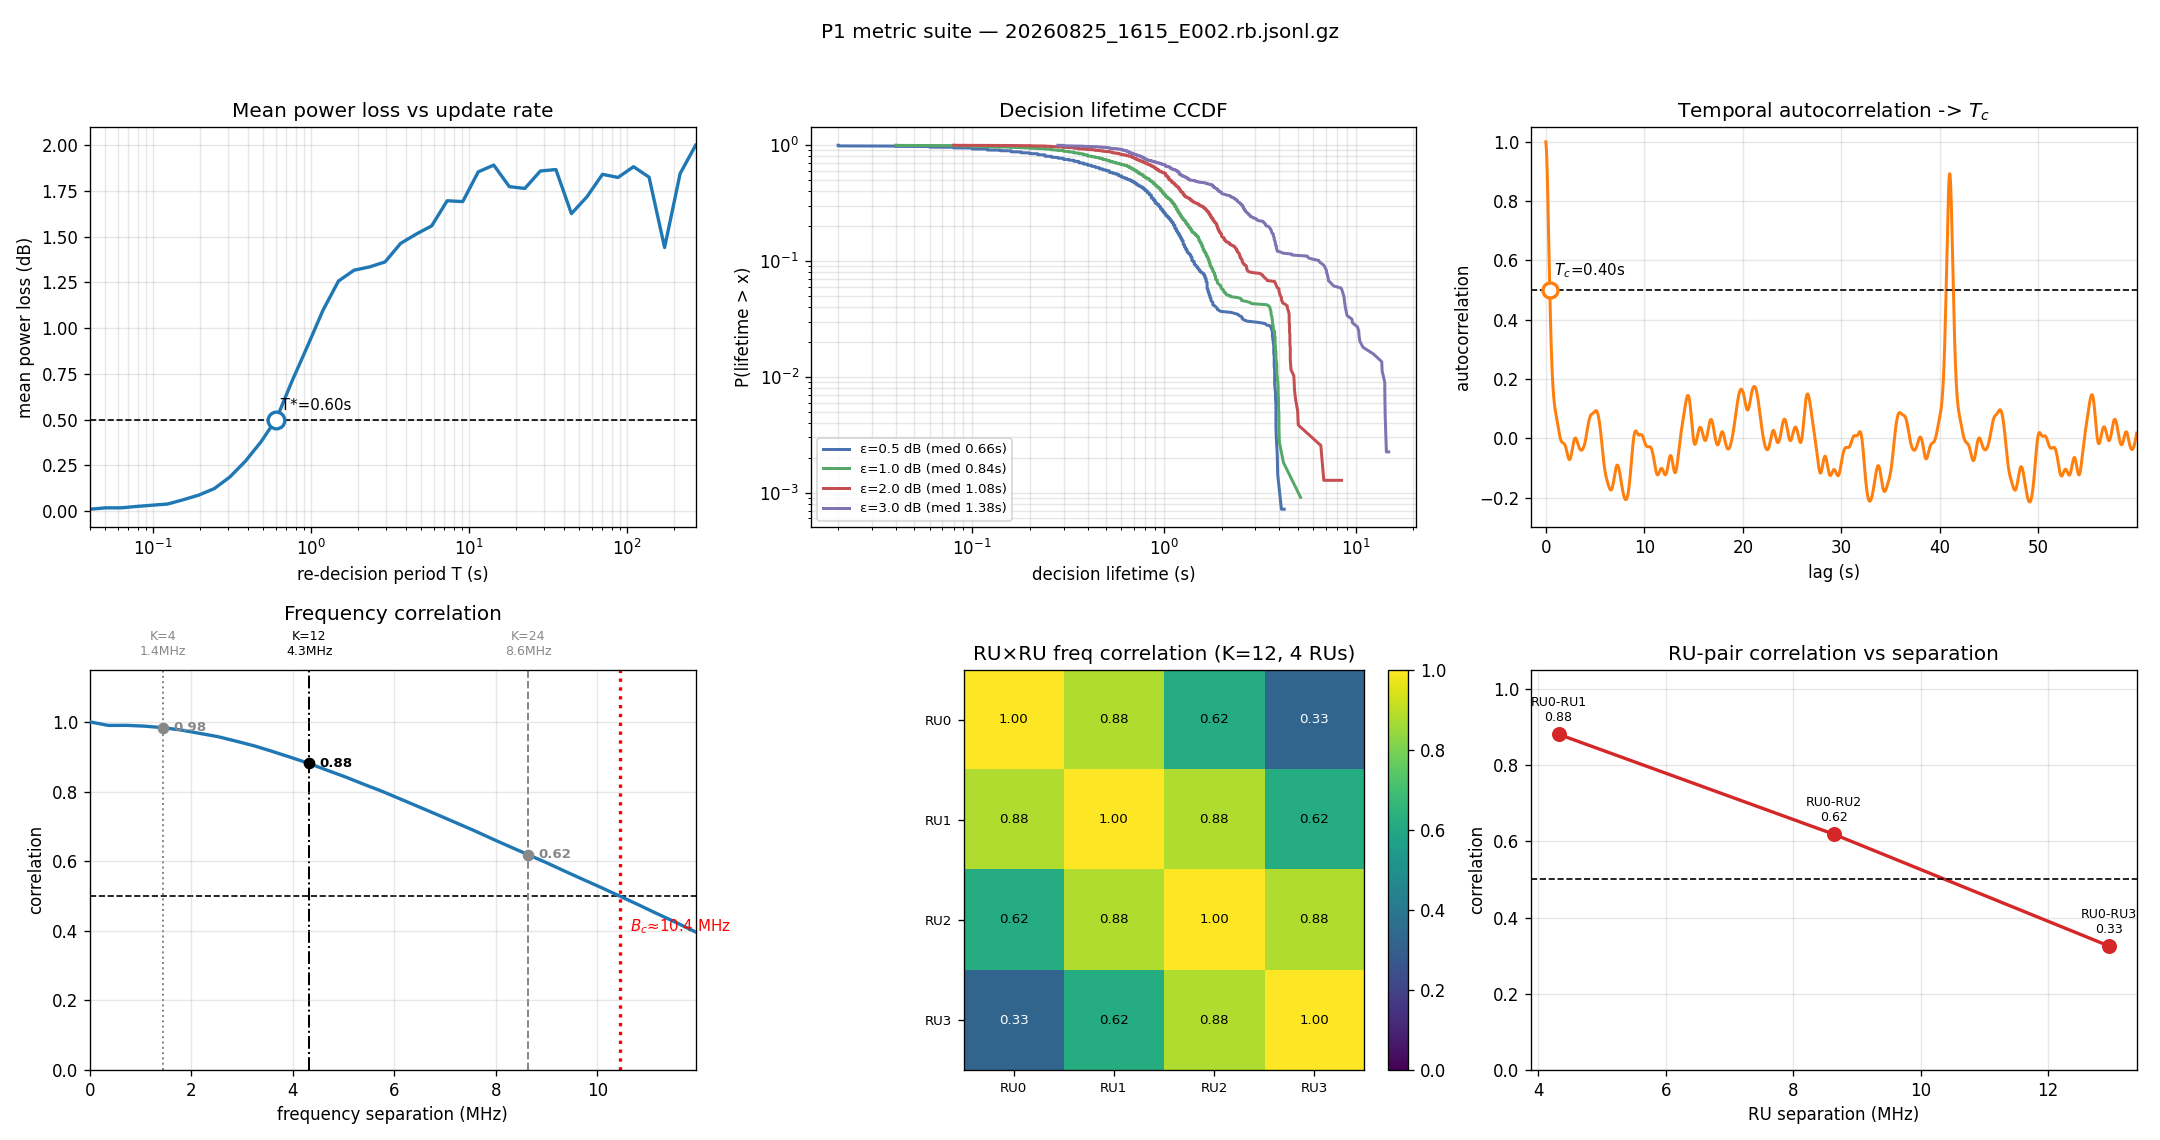
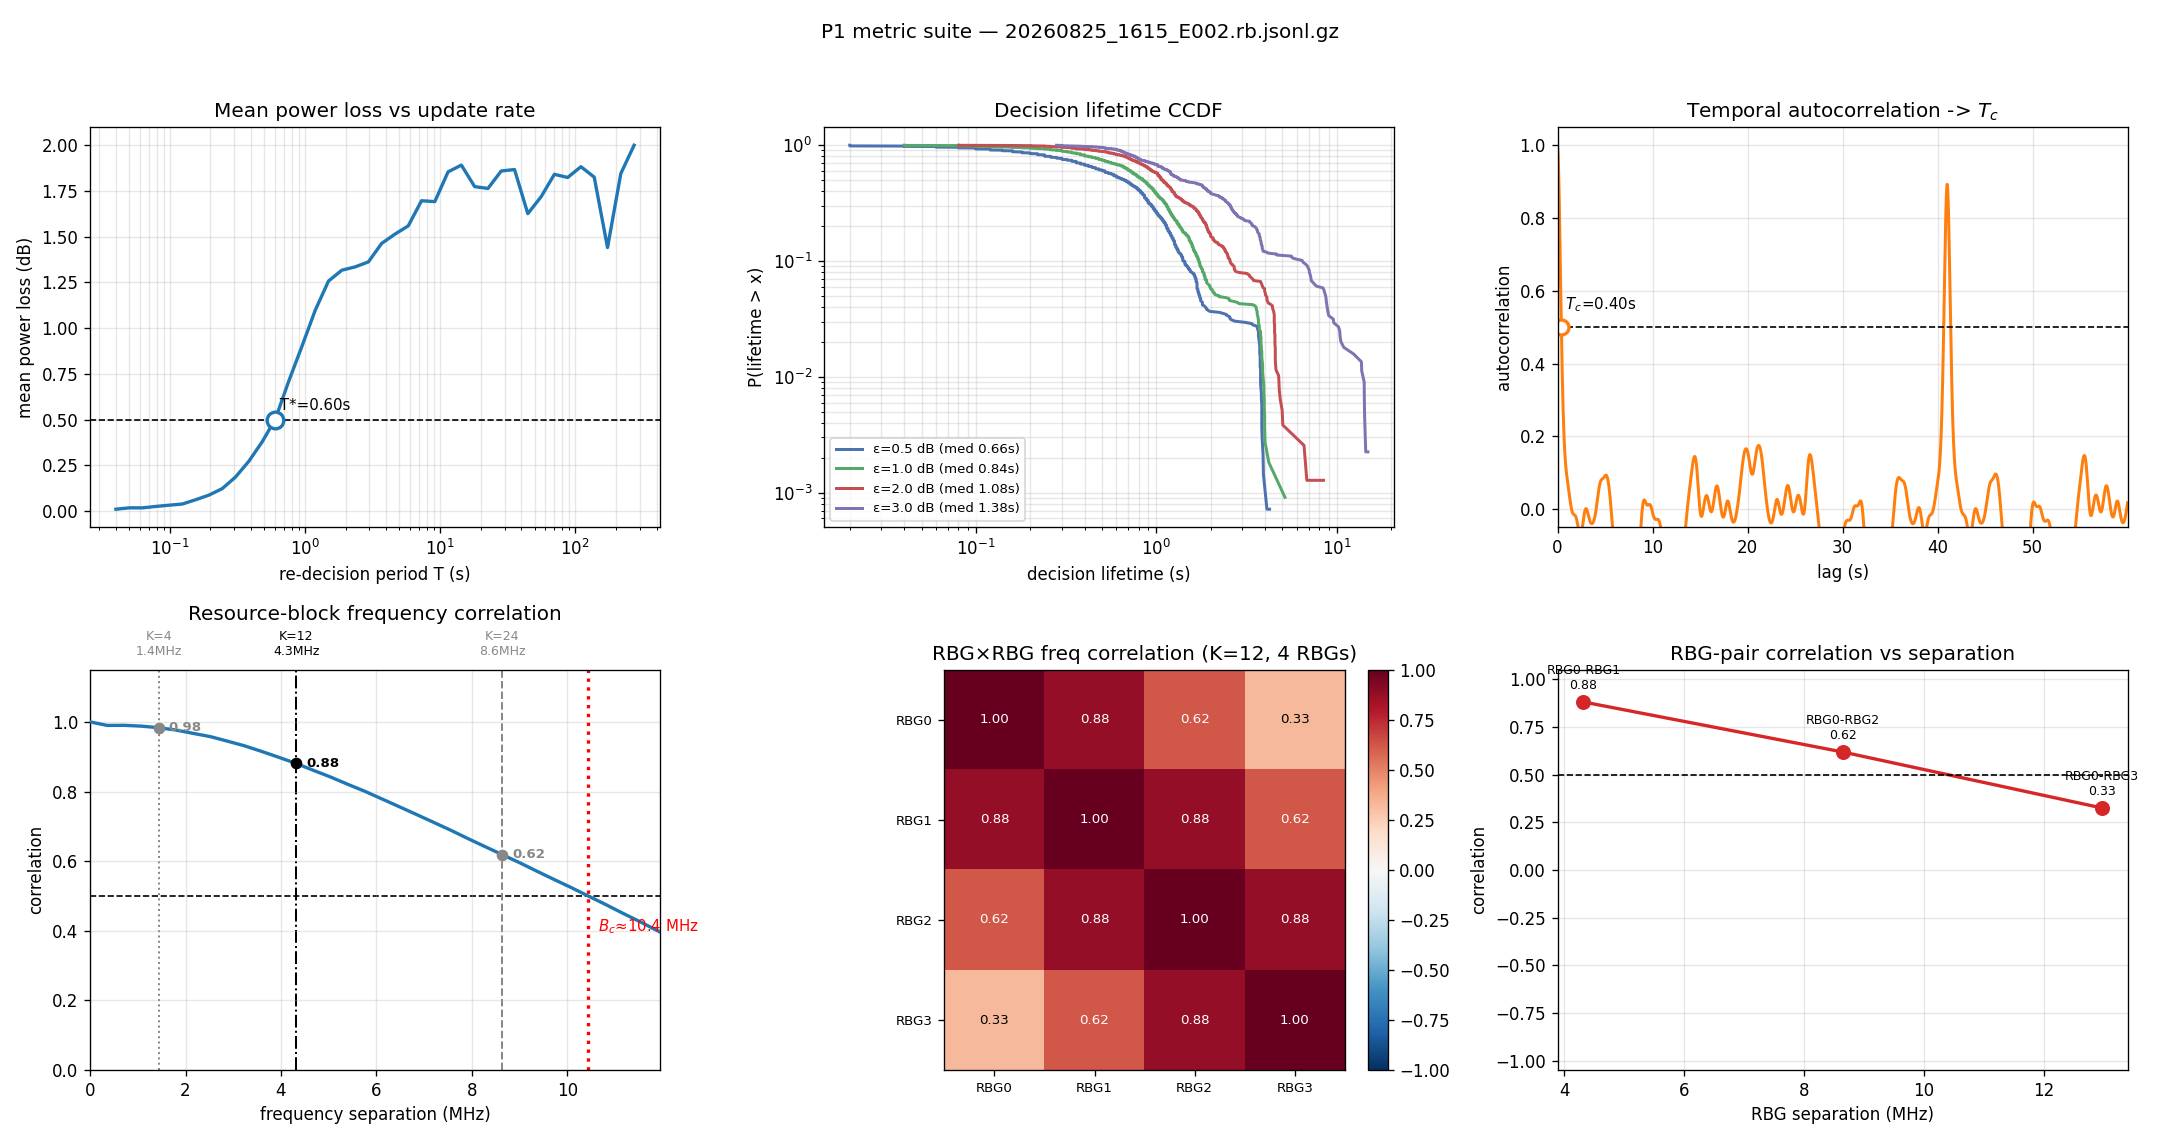
metrics_suite: rename RU->RBG, fix negative-correlation display, resource-block freq label

diff --git a/tools/metrics_suite.py b/tools/metrics_suite.py
@@ -4,10 +4,10 @@ metrics_suite.py — P1 metric set from a per-RB SRS capture.
 Panels:
   A regret vs re-decision period T -> T*
   B decision-lifetime CCDF (eps = 0.5/1/2/3 dB)
-  E temporal autocorrelation -> coherence time Tc(0.5)  [interpolated, multi-RU]
+  E temporal autocorrelation -> coherence time Tc(0.5)  [interpolated, multi-RBG]
   C frequency correlation -> coherence bandwidth Bc(0.5), K=4/12/24 markers
-  G RU x RU frequency-correlation matrix (heatmap), modular in K
-  H RU-pair correlation vs RU separation (from per-RB cf at RU-spacing lags)
+  G RBG x RBG frequency-correlation matrix (heatmap), modular in K
+  H RBG-pair correlation vs RBG separation (from per-RB cf at RBG-spacing lags)
 Usage:
   python3 metrics_suite.py CAP.rb.jsonl[.gz] [-o out.png] [--K 12]
     [--trim-start 1.5] [--trim-end 1.0] [--budget 0.5]
@@ -64,7 +64,7 @@ def lifetimes(M, eps, fs):
     return np.array(out) if out else np.array([0.0])
 
 def ru_pair_correlation(cf, K, NRB):
-    """RU-pair freq correlation from per-RB curve cf at RU-separation lags. Modular in K."""
+    """RBG-pair freq correlation from per-RB curve cf at RBG-separation lags. Modular in K."""
     R = NRB // K
     out = {}
     for s in range(1, R):
@@ -73,7 +73,7 @@ def ru_pair_correlation(cf, K, NRB):
     return out, R
 
 def ru_corr_matrix(cf, K, NRB):
-    """Full RxR RU-pair correlation matrix from cf at |i-j|*K lags."""
+    """Full RxR RBG-pair correlation matrix from cf at |i-j|*K lags."""
     R = NRB // K
     M = np.eye(R)
     for i in range(R):
@@ -121,7 +121,7 @@ def main():
     L = [f"avg window   : {win_s*1000:.0f} ms ({W} samples)", _ra,
          f"file        : {a.cap}",
          f"samples     : {len(M)}   duration {mins[-1]-mins[0]:.1f} min   rate {fs:.1f}/s",
-         f"RBs sounded : {NRB}   RU size K={a.K} -> {R} RUs"]
+         f"RBs sounded : {NRB}   RBG size K={a.K} -> {R} RBGs"]
 
     w = max(1, int(round(fs))); kern = np.ones(w)/w
     sig, noi = [], []
@@ -146,7 +146,7 @@ def main():
     ax[0,0].plot(Tstar, a.budget, "o", ms=10, mfc="w", mew=2, color="#1f77b4")
     ax[0,0].text(Tstar, a.budget+0.05, f" T*={Tstar:.2f}s", fontsize=9)
     ax[0,0].set_xlabel("re-decision period T (s)"); ax[0,0].set_ylabel("mean power loss (dB)")
-    ax[0,0].set_xlim(Ts[0], Ts[-1]); ax[0,0].set_title("Mean power loss vs update rate"); ax[0,0].grid(alpha=0.3, which="both")
+    ax[0,0].set_title("Mean power loss vs update rate"); ax[0,0].grid(alpha=0.3, which="both")
     L += [f"T*          : {Tstar:.3f} s at {a.budget} dB budget",
           f"regret(fixed choice) : {r[-1]:.2f} dB"]
 
@@ -160,7 +160,7 @@ def main():
     ax[0,1].set_title("Decision lifetime CCDF"); ax[0,1].grid(alpha=0.3, which="both")
     ax[0,1].legend(fontsize=8)
 
-    # E temporal autocorr -> Tc (interpolated, multi-RU averaged)
+    # E temporal autocorr -> Tc (interpolated, multi-RBG averaged)
     ac_all = []
     for rr in range(R):
         ys = np.convolve(M[:,rr], np.ones(W)/W, mode="valid"); y = ys - ys.mean()
@@ -179,7 +179,7 @@ def main():
         ax[0,2].text(Tc, 0.55, f" $T_c$={Tc:.2f}s", fontsize=9)
     ax[0,2].set_xlabel("lag (s)"); ax[0,2].set_ylabel("autocorrelation")
     ax[0,2].set_title("Temporal autocorrelation -> $T_c$")
-    ax[0,2].set_xlim(-1.5, min(60, lag[-1])); ax[0,2].set_ylim(-0.3, 1.05); ax[0,2].grid(alpha=0.3)
+    ax[0,2].set_xlim(0, min(60, lag[-1])); ax[0,2].set_ylim(-0.05, 1.05); ax[0,2].grid(alpha=0.3)
     L.append(f"Tc(0.5)     : {Tc:.3f} s")
 
     # C frequency correlation -> Bc
@@ -210,38 +210,38 @@ def main():
                              ha="left", color=col, fontweight="bold")
     ax[1,0].set_xlim(0, xmax); ax[1,0].set_ylim(0, 1.15)
     ax[1,0].set_xlabel("frequency separation (MHz)"); ax[1,0].set_ylabel("correlation")
-    ax[1,0].set_title("Frequency correlation", pad=30); ax[1,0].grid(alpha=0.3, zorder=0)
-    L.append(f"Bc(0.5)     : {Bc:.2f} MHz  (RU width K={a.K} = {a.K*RBBW/1e6:.2f} MHz)")
+    ax[1,0].set_title("Resource-block frequency correlation", pad=30); ax[1,0].grid(alpha=0.3, zorder=0)
+    L.append(f"Bc(0.5)     : {Bc:.2f} MHz  (RBG width K={a.K} = {a.K*RBBW/1e6:.2f} MHz)")
 
-    # G RU×RU correlation matrix (heatmap), modular in K
+    # G RBG×RBG correlation matrix (heatmap), modular in K
     corrM, R_ru = ru_corr_matrix(cf, a.K, NRB)
-    im = ax[1,1].imshow(corrM, vmin=0, vmax=1, cmap="viridis", origin="upper")
+    im = ax[1,1].imshow(corrM, vmin=-1, vmax=1, cmap="RdBu_r", origin="upper")
     ax[1,1].set_xticks(range(R_ru)); ax[1,1].set_yticks(range(R_ru))
-    ax[1,1].set_xticklabels([f"RU{i}" for i in range(R_ru)], fontsize=8)
-    ax[1,1].set_yticklabels([f"RU{i}" for i in range(R_ru)], fontsize=8)
+    ax[1,1].set_xticklabels([f"RBG{i}" for i in range(R_ru)], fontsize=8)
+    ax[1,1].set_yticklabels([f"RBG{i}" for i in range(R_ru)], fontsize=8)
     for i in range(R_ru):
         for j in range(R_ru):
             val = corrM[i,j]
             ax[1,1].text(j, i, f"{val:.2f}", ha="center", va="center",
-                         color="white" if val < 0.6 else "black", fontsize=8)
-    ax[1,1].set_title(f"RU×RU freq correlation (K={a.K}, {R_ru} RUs)")
+                         color="white" if abs(val) > 0.5 else "black", fontsize=8)
+    ax[1,1].set_title(f"RBG×RBG freq correlation (K={a.K}, {R_ru} RBGs)")
     fig.colorbar(im, ax=ax[1,1], fraction=0.046, pad=0.04)
 
-    # H RU-pair correlation vs RU separation, modular in K
+    # H RBG-pair correlation vs RBG separation, modular in K
     pairs, _ = ru_pair_correlation(cf, a.K, NRB)
     seps = list(pairs.keys()); cvals = [pairs[s] for s in seps]
     sep_mhz = [s*a.K*RBBW/1e6 for s in seps]
     ax[1,2].plot(sep_mhz, cvals, "o-", lw=2, color="#d62728", ms=8)
     ax[1,2].axhline(0.5, ls="--", c="k", lw=1)
     for s, c, fm in zip(seps, cvals, sep_mhz):
-        ax[1,2].annotate(f"RU0-RU{s}\n{c:.2f}", xy=(fm,c), xytext=(0,8),
+        ax[1,2].annotate(f"RBG0-RBG{s}\n{c:.2f}", xy=(fm,c), xytext=(0,8),
                          textcoords="offset points", fontsize=7.5, ha="center")
-    ax[1,2].set_xlabel("RU separation (MHz)"); ax[1,2].set_ylabel("correlation")
-    ax[1,2].set_title("RU-pair correlation vs separation")
-    ax[1,2].set_ylim(0, 1.05); ax[1,2].grid(alpha=0.3)
-    L.append(f"RU-pair freq correlation (K={a.K}, {R_ru} RUs):")
+    ax[1,2].set_xlabel("RBG separation (MHz)"); ax[1,2].set_ylabel("correlation")
+    ax[1,2].set_title("RBG-pair correlation vs separation")
+    ax[1,2].set_ylim(-1.05, 1.05); ax[1,2].grid(alpha=0.3)
+    L.append(f"RBG-pair freq correlation (K={a.K}, {R_ru} RBGs):")
     for s, c in pairs.items():
-        L.append(f"  RU-sep {s} ({s*a.K*RBBW/1e6:.1f} MHz): corr={c:.2f}")
+        L.append(f"  RBG-sep {s} ({s*a.K*RBBW/1e6:.1f} MHz): corr={c:.2f}")
 
     cuts = [i for i in range(1, len(RN)) if RN[i] != RN[i-1]]
     L.append(f"re-attaches  : {len(cuts)}  at min " + ", ".join(f"{mins[c]:.1f}" for c in cuts))
